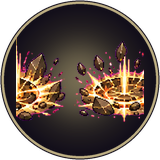
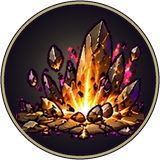
Sửa hiệu ứng Thổ bị cụt khung vuông (thay tho-vong bằng k.bao-tho); xoá mã thử hopnhat (#97)
Claude-Session: https://claude.ai/code/session_01NZd8YsZEguGMDtshCzNLjh

diff --git a/src/game/codex.js b/src/game/codex.js
@@ -71,7 +71,7 @@ export async function openCodex(o) {
     { ...skill('skill.linh-thu', 'Linh thú', `${U}linh-thu.png`, [], [`Gọi linh thú đánh cùng ${S['linh-thu'].last_s}s · hồi ${S['linh-thu'].cd_s}s · mở ở Kết Đan, cần đeo linh thú`]),
       status: 'tam', img: null, anim: sheetAnim('cho-trang', ['idle', 'walk']), note: 'Linh thú đang dùng chó trắng (gói miễn phí) · chưa có hình linh thú riêng' },
     skill('skill.luot', 'Lướt', `${U}luot.png`, [], [`Tăng né ×${S.luot.ne_mul} và tốc độ trong ${S.luot.last_s}s · hồi ${S.luot.cd_s}s · mở ở Kết Đan`]),
-    skill('skill.nguyen-anh', 'Nguyên Anh (diện rộng)', `${U}nguyen-anh.png`, ['tho-vong'], [`Đánh quanh mình ×${S['nguyen-anh'].mul} · ${S['nguyen-anh'].mp} linh lực · mở ở Nguyên Anh`]),
+    skill('skill.nguyen-anh', 'Nguyên Anh (diện rộng)', `${U}nguyen-anh.png`, ['k.bao-tho'], [`Đánh quanh mình ×${S['nguyen-anh'].mul} · ${S['nguyen-anh'].mp} linh lực · mở ở Nguyên Anh`]),
     skill('skill.phap-tuong', 'Pháp tướng hoá hình', `${U}phap-tuong.png`, [], [`+${Math.round((S['phap-tuong'].atk_mul - 1) * 100)}% công, +${Math.round((S['phap-tuong'].def_mul - 1) * 100)}% thủ khi hiện; tốn linh lực liên tục`], 'Hình = pháp tướng đang đeo (xem Trang bị)'),
     ...S._order.filter((id) => S[id]?.kind && S[id].fx).map((id) => skill(`skill.${id}`, S[id].name, `${U}trong.png`, [S[id].fx, S[id].hit_fx].filter(Boolean),
       [`${S[id].desc.replace(/\{(\w+)(%?)\}/g, (_, k, p) => (p ? `${Math.round(S[id][k] * 100)}%` : S[id][k]))} · ${S[id].mp} linh lực · hồi ${S[id].cd_s}s`], 'Hiệu ứng: tấm chủ dự án 23/10')),

diff --git a/src/game/skills.js b/src/game/skills.js
@@ -62,7 +62,7 @@ export function createSkills(c) {
         c.recompute(); toast('Lăng Ba Vi Bộ', 900); return true;
       case 'nguyen-anh':
         fx.push({ kind: 'ring', x: me.x, y: me.y, r: s.radius_px, color: '#c9a6ff', t: 0.5, life: 0.5 });
-        play('tho-vong', me.x, me.y + 4, s.radius_px * 1.1, { ground: true });
+        play('k.bao-tho', me.x, me.y + 4, s.radius_px * 1.1, { ground: true }); // tho-vong cũ bị lẹm khung (chủ dự án 23/10)
         for (const m of mobs.within(me, s.radius_px)) c.strike(m, s.mul, 'nguyen-anh');
         return true;
       default: break;

diff --git a/src/game/treasure.js b/src/game/treasure.js
@@ -68,7 +68,7 @@ export function createTreasure(c) {
       }
       case 'seal': {
         const m = tgt || { x: me.x + me.facing * 40, y: me.y };
-        play(d.fx, m.x, m.y + 4, d.h, { ground: true }); play('tho-vong', m.x, m.y + 4, d.r * 1.6, { ground: true });
+        play(d.fx, m.x, m.y + 4, d.h, { ground: true }); play('k.bao-tho', m.x, m.y + 4, d.r * 1.6, { ground: true }); // tho-vong cũ bị lẹm khung
         barrage.zap({ kind: 'ring', x: m.x, y: m.y, r: d.r, t: 0.6, color: he.color });
         barrage.hitAround(m.x, m.y, d.r, mul, 'skill', d.stun);
         break;

diff --git a/src/game/barrage.js b/src/game/barrage.js
@@ -53,7 +53,7 @@ export function createBarrage(c) {
       }
     }
     if (md.shock) {
-      play('tho-vong', m.x, m.y + 2, md.shock.r * 1.6, { ground: true });
+      play('k.bao-tho', m.x, m.y + 2, md.shock.r * 1.6, { ground: true }); // tho-vong cũ bị lẹm khung
       zaps.push({ kind: 'ring', x: m.x, y: m.y, r: md.shock.r, t: 0.35, color: dv.heOf('Thổ').color });
       hitAround(m.x, m.y, md.shock.r, md.shock.mul || 0.6, 'skill', md.shock.stun);
     }
